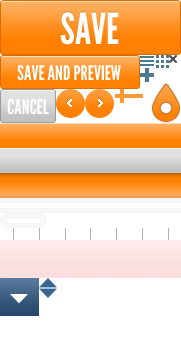
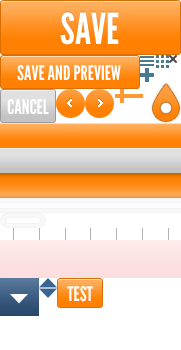
Change UI of the regex tester

Changed region(s): [[0.3039, 0.7714, 0.5801, 0.8857]]

diff --git a/jcsdl/jcsdl.css b/jcsdl/jcsdl.css
@@ -53,7 +53,7 @@
   display: block;
   height: 34px;
   width: 140px;
-  background: url("img/elements.png?13") no-repeat 0 -55px; }
+  background: url("img/elements.png?14") no-repeat 0 -55px; }
   .jcsdl-button.jcsdl-editor-cancel, .jcsdl-button.jcsdl-filter-cancel {
     width: 56px;
     background-position: 0 -89px; }
@@ -103,7 +103,7 @@
   -moz-background-clip: padding;
   -webkit-background-clip: padding-box;
   background-clip: padding-box;
-  background: url("img/elements.png?13") repeat-x center -240px; }
+  background: url("img/elements.png?14") repeat-x center -240px; }
   .jcsdl-error strong {
     color: red;
     font-weight: bold; }
@@ -136,7 +136,7 @@
     display: block;
     width: 14px;
     height: 14px;
-    background: url("img/elements.png?13") no-repeat -140px -68px; }
+    background: url("img/elements.png?14") no-repeat -140px -68px; }
   .jcsdl-mainview-action.jcsdl-add-filter {
     margin-right: 0; }
 
@@ -162,7 +162,7 @@
   display: block;
   width: 13px;
   height: 13px;
-  background: url("img/elements.png?13") no-repeat -140px -55px;
+  background: url("img/elements.png?14") no-repeat -140px -55px;
   -ms-filter: "progid:DXImageTransform.Microsoft.Alpha(Opacity=30)";
   filter: alpha(opacity=30);
   -moz-opacity: 0.3;
@@ -321,7 +321,7 @@
   height: 29px;
   line-height: 29px;
   text-align: center;
-  background: transparent url("img/elements.png?13") no-repeat -56px -89px; }
+  background: transparent url("img/elements.png?14") no-repeat -56px -89px; }
   .jcsdl-carousel-scroll.right {
     float: right;
     background-position: -85px -89px; }
@@ -447,7 +447,7 @@
       -moz-background-clip: padding;
       -webkit-background-clip: padding-box;
       background-clip: padding-box;
-      background: url("img/elements.png?13") no-repeat 0 -278px; }
+      background: url("img/elements.png?14") no-repeat 0 -278px; }
     .jcsdl-filter-editor .jcsdl-operators-select:hover {
       background: #fafafa; }
       .jcsdl-filter-editor .jcsdl-operators-select:hover .jcsdl-dropdown-icon {
@@ -509,7 +509,9 @@
  */
 .jcsdl-input-text, .jcsdl-input-number {
   display: block;
-  margin: 0 20px; }
+  margin: 0 20px;
+  position: relative;
+  /* regex tester */ }
   .jcsdl-input-text input, .jcsdl-input-text .jcsdl-tag-input, .jcsdl-input-number input, .jcsdl-input-number .jcsdl-tag-input {
     display: block;
     box-sizing: border-box;
@@ -569,7 +571,7 @@
           position: absolute;
           right: 4px;
           top: 12px;
-          background: url("img/elements.png?13") no-repeat -169px -55px;
+          background: url("img/elements.png?14") no-repeat -169px -55px;
           -ms-filter: "progid:DXImageTransform.Microsoft.Alpha(Opacity=70)";
           filter: alpha(opacity=70);
           -moz-opacity: 0.7;
@@ -595,6 +597,28 @@
           font-size: 17px !important;
           border: 0;
           outline: 0; }
+    .jcsdl-input-text input.jcsdl-regex-active, .jcsdl-input-text .jcsdl-tag-input.jcsdl-regex-active, .jcsdl-input-number input.jcsdl-regex-active, .jcsdl-input-number .jcsdl-tag-input.jcsdl-regex-active {
+      padding-right: 54px; }
+  .jcsdl-input-text .jcsdl-regex-tester-button, .jcsdl-input-number .jcsdl-regex-tester-button {
+    position: absolute;
+    top: 5px;
+    right: 5px;
+    display: block;
+    width: 46px;
+    height: 30px;
+    overflow: hidden;
+    text-indent: -9999px;
+    background: url("img/elements.png?14") no-repeat -57px -278px; }
+    .jcsdl-input-text .jcsdl-regex-tester-button:hover, .jcsdl-input-number .jcsdl-regex-tester-button:hover {
+      -ms-filter: "progid:DXImageTransform.Microsoft.Alpha(Opacity=90)";
+      filter: alpha(opacity=90);
+      -moz-opacity: 0.9;
+      -khtml-opacity: 0.9;
+      opacity: 0.9; }
+  .jcsdl-input-text .jcsdl-regex-tester p, .jcsdl-input-number .jcsdl-regex-tester p {
+    text-align: center;
+    margin: 5px 30px;
+    color: #888888; }
   .jcsdl-input-text .jcsdl-regex-tester input, .jcsdl-input-number .jcsdl-regex-tester input {
     margin: 5px 0; }
     .jcsdl-input-text .jcsdl-regex-tester input.ok, .jcsdl-input-number .jcsdl-regex-tester input.ok {
@@ -671,7 +695,7 @@
       display: block;
       width: 14px;
       height: 14px;
-      background: transparent url("img/elements.png?13") no-repeat -115px -89px;
+      background: transparent url("img/elements.png?14") no-repeat -115px -89px;
       -ms-filter: "progid:DXImageTransform.Microsoft.Alpha(Opacity=70)";
       filter: alpha(opacity=70);
       -moz-opacity: 0.7;
@@ -743,7 +767,7 @@
     margin-bottom: 7px;
     height: 12px;
     cursor: pointer;
-    background: transparent url("img/elements.png?13") repeat-x center -228px;
+    background: transparent url("img/elements.png?14") repeat-x center -228px;
     border: 0;
     -webkit-border-radius: 0px;
     -khtml-border-radius: 0px;
@@ -761,7 +785,7 @@
       width: 30px;
       height: 40px;
       cursor: pointer;
-      background: transparent url("img/elements.png?13") no-repeat -152px -83px;
+      background: transparent url("img/elements.png?14") no-repeat -152px -83px;
       border: 0;
       outline: none; }
   .jcsdl-input-slider .jcsdl-slider-bottom {
@@ -774,7 +798,7 @@
       width: 15px;
       height: 15px;
       float: left;
-      background: transparent url("img/elements.png?13") no-repeat 0 -213px; }
+      background: transparent url("img/elements.png?14") no-repeat 0 -213px; }
     .jcsdl-input-slider .jcsdl-slider-bottom .jcsdl-slider-bottom-right {
       float: right;
       background-position: -31px -213px; }
@@ -782,7 +806,7 @@
       display: block;
       height: 15px;
       margin: 0 15px;
-      background: transparent url("img/elements.png?13") repeat-x 0 -198px; }
+      background: transparent url("img/elements.png?14") repeat-x 0 -198px; }
 
 .jcsdl-map {
   text-align: center; }
@@ -1502,7 +1526,7 @@
       margin: 18px 10px;
       width: 18px;
       height: 10px;
-      background: url("img/elements.png?13") no-repeat -39px -288px;
+      background: url("img/elements.png?14") no-repeat -39px -288px;
       -ms-filter: "progid:DXImageTransform.Microsoft.Alpha(Opacity=50)";
       filter: alpha(opacity=50);
       -moz-opacity: 0.5;

diff --git a/jcsdl/jcsdl.gui.plugins.js b/jcsdl/jcsdl.gui.plugins.js
@@ -608,8 +608,10 @@
 
 		this.$el = $el;
 		this.exp = new RegExp();
+
+		this.$btn = $('<a href="#" class="jcsdl-regex-tester-button">Test</a>').insertAfter(this.$el);
 		
-		this.$wrap = $('<div class="jcsdl-regex-tester" />').insertAfter(this.$el);
+		this.$wrap = $('<div class="jcsdl-regex-tester"><p>If you want to test whether your regular expression correctly matches the desired strings, click the "Test" button and input example content in the shown fields.</p></div>').insertAfter(this.$el).hide();
 		this.$fields = $();
 		for(var i = 1; i <= config.fields; i++) {
 			var $field = this.$el.clone().show().attr('placeholder', 'Test your expression against this field...');
@@ -617,6 +619,16 @@
 			this.$fields = this.$fields.add($field);
 		}
 
+		this.$btn.bind('click touchstart', function(ev) {
+			ev.preventDefault();
+			ev.target.blur();
+
+			self.$fields.fadeIn();
+			self.val = self.$el.val();
+			self.test();
+		});
+
+		/*
 		this.$el.bind('keyup change', function(ev) {
 			self.val = self.$el.val();
 			self.test();
@@ -625,6 +637,7 @@
 		this.$fields.bind('keyup', function(ev) {
 			self.test($(this));
 		});
+		*/
 
 		this.disable(); // disabled by default
 	};
@@ -648,11 +661,16 @@
 		},
 		enable : function() {
 			this.$el.data('jcsdlRegExTesterEnabled', true);
-			this.$wrap.show();
+			this.$el.addClass('jcsdl-regex-active');
+			this.$wrap.fadeIn();
+			this.$btn.fadeIn();
 		},
 		disable : function() {
 			this.$el.data('jcsdlRegExTesterEnabled', false);
+			this.$el.removeClass('jcsdl-regex-active');
 			this.$wrap.hide();
+			this.$fields.hide();
+			this.$btn.hide();
 		},
 		setPartial : function() {
 			this.mode = 'partial';

diff --git a/jcsdl/jcsdl.scss b/jcsdl/jcsdl.scss
@@ -6,7 +6,7 @@ $colorBlackLight : #c6c6c9;
 $colorOrange : #ff9933;
 $borderColor : #dcdcdc;
 $borderColorInput : #c8d7de;
-$elementsSprite : 'img/elements.png?13';
+$elementsSprite : 'img/elements.png?14';
 $selectSprite : 'img/select.png?12';
 $stepBackground : 'img/step_background.png?5';
 $targetIconsSprite : 'img/icons-sprite-targets.png?10';
@@ -395,7 +395,7 @@ $otherIconsSprite : 'img/icons-sprite-other.png?2';
  * FILTER EDITOR INPUT FIELDS
  */
 .jcsdl-input-text, .jcsdl-input-number {
-	display: block; margin: 0 20px;
+	display: block; margin: 0 20px; position: relative;
 
 	input, .jcsdl-tag-input {
 		display: block; box-sizing: border-box; -moz-box-sizing: border-box; -webkit-box-sizing: border-box;
@@ -436,12 +436,28 @@ $otherIconsSprite : 'img/icons-sprite-other.png?2';
 				}
 			}
 		}
+
+		&.jcsdl-regex-active {padding-right: 54px;}
 	}
 
-	.jcsdl-regex-tester input {
-		margin: 5px 0;
-		&.ok {border-color: green;}
-		&.err {border-color: red;}
+	/* regex tester */
+	.jcsdl-regex-tester-button {
+		position: absolute; top: 5px; right: 5px;
+		display: block; width: 46px; height: 30px;
+		overflow: hidden; text-indent: -9999px;
+		background: url($elementsSprite) no-repeat -57px -278px;
+
+		&:hover {@include opacity(0.9);}
+	}
+
+	.jcsdl-regex-tester {
+		p {text-align: center; margin: 5px 30px; color: $colorLight;}
+		
+		input {
+			margin: 5px 0;
+			&.ok {border-color: green;}
+			&.err {border-color: red;}
+		}
 	}
 }
 .jcsdl-input-text {margin-top: 20px;}
